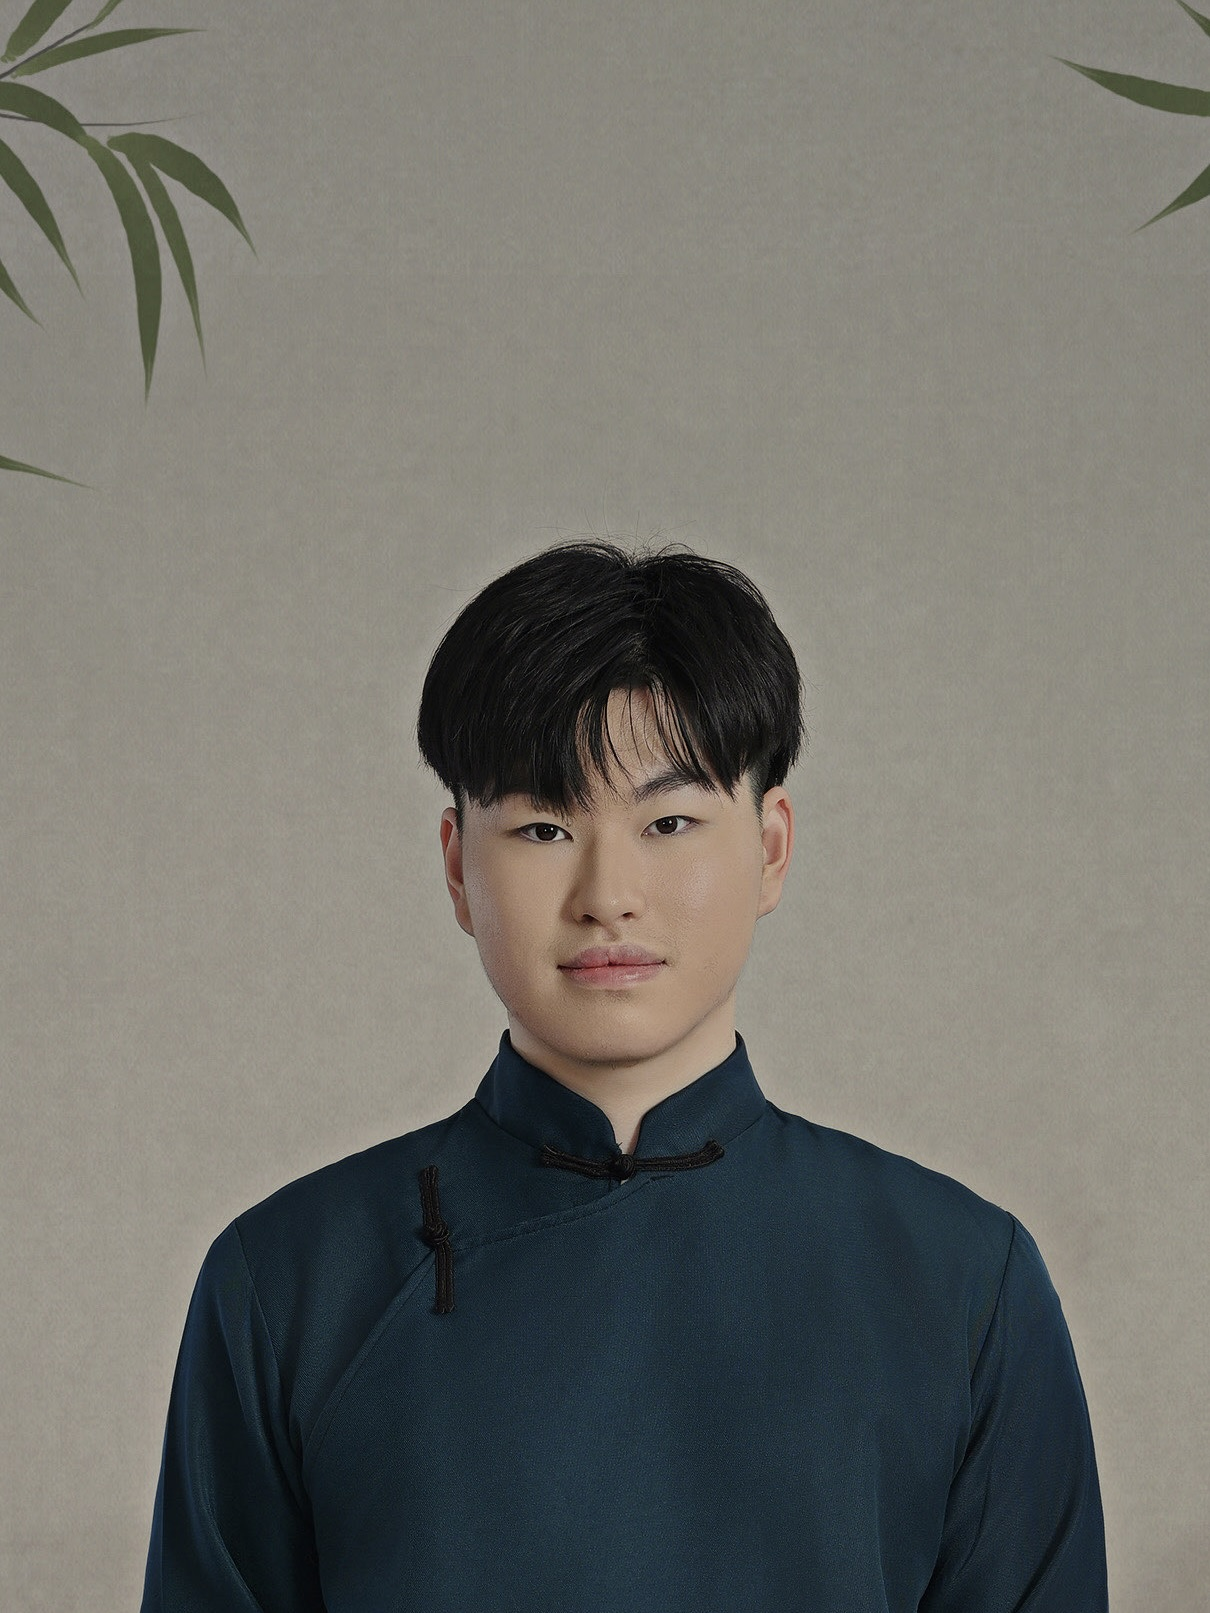
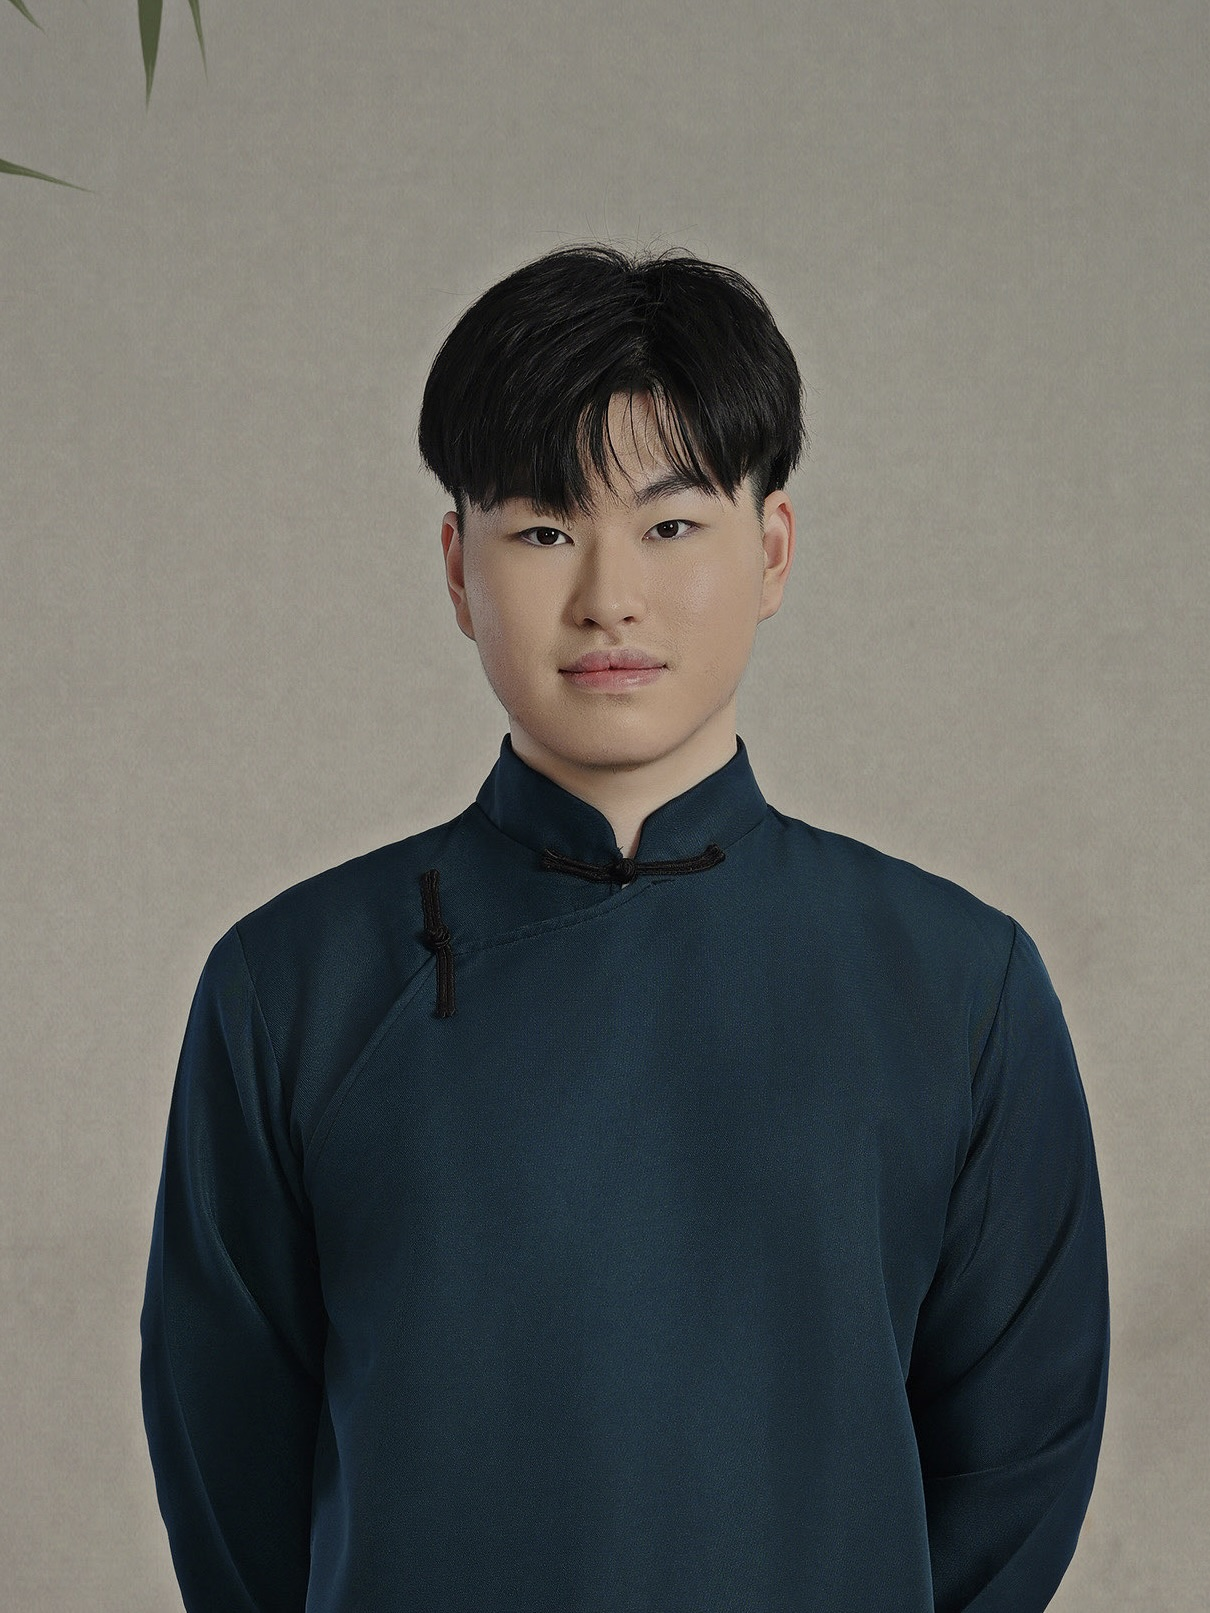
pictures

diff --git a/misc.html b/misc.html
@@ -19,8 +19,7 @@
         <img src="misc/king/king6.jpg" alt="king 6">
     </div>
     <hr>
-    <h3>I am a big fan of Pokémon video games, trading card game, anime, and competitive battling. </h3>
-    <h4>I reached top 300 on the Pokémon Showdown Gen 9 Random Battles ladder on September 28, 2025.</h4>
+    <h3>I reached rank 259 on the global Pokémon Showdown Gen 9 Random Battles ladder on September 28, 2025.</h4>
     <img src="misc/top500.png" alt="top500" width="450">
     <hr>
     <h3>Below are my favorite Pokémon and teams from each region.</h3>
@@ -135,7 +134,7 @@
     <!-- <hr> -->
     <!-- <h3>I also enjoy studying ancient Chinese history. <a href="misc/family_tree.png">This</a> is a family tree I created for the Xia (夏) dynasty and several other ruling families, based on information from <em>Shiji</em>.</h3> -->
 
-    <hr>
+    <!-- <hr>
     <h3>Digital Version of Pokémon Binder</h3>
 
     <div class="binder-wrapper">
@@ -143,7 +142,7 @@
         <div class="binder">
         <div class="book" id="book">
 
-            <!-- First spread (right page only) -->
+            
             <div class="spread active">
             <div class="page left empty"></div>
             <div class="page right">
@@ -155,7 +154,6 @@
             </div>
             </div>
 
-            <!-- Middle spread -->
             <div class="spread">
             <div class="page left">
                 <div class="card-grid">
@@ -167,13 +165,12 @@
             </div>
             </div>
 
-            <!-- Last spread (left page only) -->
-            <!-- <div class="spread">
+            <div class="spread">
             <div class="page left">
                 <div class="card-grid"></div>
             </div>
             <div class="page right empty"></div>
-            </div> -->
+            </div>
 
         </div>
         </div>
@@ -183,22 +180,22 @@
         <button onclick="next()">Next ▶</button>
         </div>
 
-    </div>
+    </div> -->
 
     <hr>
-    <h3>Here are some pictures of myself that I like. </h3>
+    <h3>Here are some other pictures. </h3>
     <div class="image-row">
         <img src="misc/personal_pics/suit.png" alt="personal 1">
         <img src="misc/personal_pics/mtsoledad1.png" alt="personal 2">
         <img src="misc/personal_pics/yukata.png" alt="personal 3">
         <img src="misc/personal_pics/mirror.png" alt="personal 4">
-        <img src="misc/personal_pics/watertown.png" alt="personal 5">
-        <img src="misc/personal_pics/jiufen.png" alt="personal 6">
+        <img src="misc/personal_pics/jiufen2.jpg" alt="personal 5">
+        <img src="misc/personal_pics/taipingshan.jpg" alt="personal 6">
     </div>
 
     <div class="image-row">
         <img src="misc/personal_pics/tongling.png" alt="personal 7">
-        <img src="misc/personal_pics/mtsoledad2.png" alt="personal 8">
+        <img src="misc/personal_pics/zl.jpg" alt="personal 8">
         <img src="misc/personal_pics/hatake.png" alt="personal 9">
         <img src="misc/personal_pics/disney.png" alt="personal 10">
         <img src="misc/personal_pics/joes.png" alt="personal 11">

diff --git a/pictures.html b/pictures.html
@@ -9,26 +9,10 @@
 <body>
     <h1>Pictures</h1>
     <figure>
-        <img src="images/cmu_hcii_poster.png" alt="HCII" width="500">
-        <figcaption>CMU HCII REU | Newell-Simon Hall | 31. July 2025</figcaption>
-    </figure>
-    <figure>
         <img src="images/cmu.jpg" alt="CMU" width="500">
         <figcaption>CMU HCII REU | Hamerschlag Hall | 18. June 2025</figcaption>
     </figure>
-    <figure>
-        <img src="images/pike.jpg" alt="PIKE" width="500">
-        <figcaption>Joint Mathematics Meeting | Pike Place Market | 11. January 2025</figcaption>
-    </figure>
-    <figure>
-        <img src="images/jmm_poster.jpg" alt="jmm" width="500">
-        <figcaption>Joint Mathematics Meeting | Seattle Convention Center | 10. January 2025</figcaption>
-    </figure>
 
-    <figure>
-        <img src="images/algecom.png" alt="algecom" width="500">
-        <figcaption>Algebra-Geometry-Combinatorics Seminar | UIUC | 14. November 2024</figcaption>
-    </figure>
     <figure>
         <img src="images/reiner2024.jpg" alt="reiner" width="500">
         <figcaption>Combinatorics Colloquium | UIUC | 20. September 2024</figcaption>
@@ -38,6 +22,7 @@
         <img src="images/nus.jpg" alt="NUS" width="500">
         <figcaption>SERIUS | National University of Singapore | 18. June 2024</figcaption>
     </figure>
+
     <figure>
         <img src="images/ntu.jpg" alt="NTU" width="500">
         <figcaption>Visit | Nanyang Technological University | 6. June 2024</figcaption>
@@ -51,15 +36,12 @@
         <img src="images/rhit.jpg" alt="RHIT" width="500">
         <figcaption>Rose-Hulman Undergraduate Math Conference | Rose-Hulman Institute of Technology | 27. April 2024</figcaption>
     </figure>
-    <!-- <figure>
-        <img src="images/urs2024.jpg" alt="urs" width="500">
-        <figcaption>UIUC Undergraduate Research Symposium | UIUC | 25. April 2024</figcaption>
-    </figure> -->
 
     <figure>
         <img src="images/davis.jpg" alt="UCD" width="500">
         <figcaption>Special Visit | University of California Davis | 7. March 2024</figcaption>
     </figure>
+    
     <figure>
         <img src="images/uiuc.jpg" alt="UIUC" width="500">
         <figcaption>Undergraduate | University of Illinois Urbana-Champaign | 28. February 2024</figcaption>
